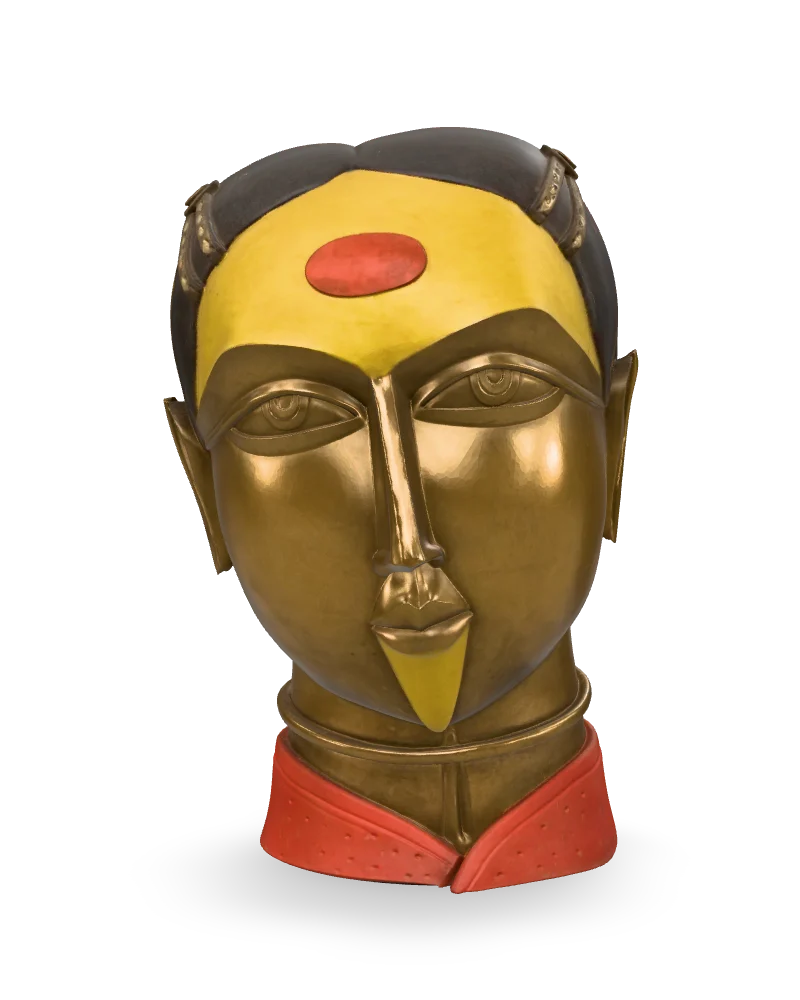
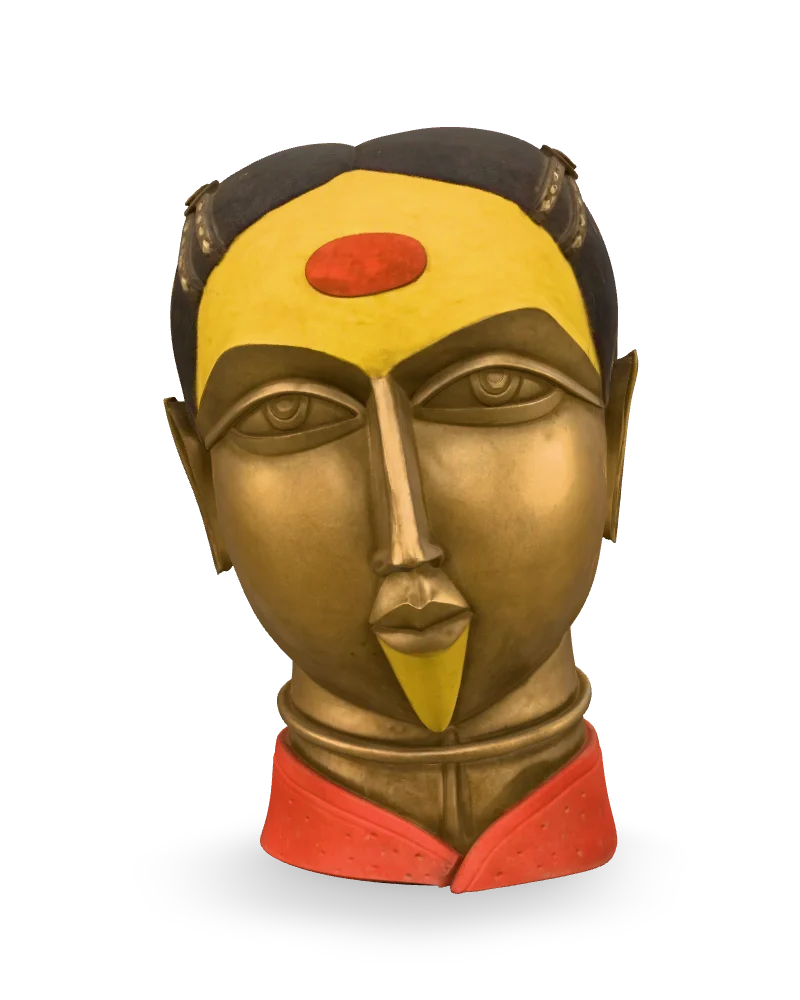
Ruby Saree Lady: new look from the look lab
More matte and brighter, for the AO model. Thumbnail rebuilt (?v=8).

diff --git a/lib/sculptures.ts b/lib/sculptures.ts
@@ -820,9 +820,9 @@ export const sculptures: Sculpture[] = [
     longDescription:
       "Calm and symmetrical, this bronze head by Thota Vaikuntam is dated 2026 and measures 24 × 16 × 24 inches, about 61 centimetres tall. The face is a smooth, rounded oval in brown bronze, broad across the cheeks and narrowing towards the chin.\n\nA broad yellow band runs across the forehead beneath dark hair, which is drawn back into a large round bun at the back of the head, and an oval red-orange bindi sits in the middle of the band. Small ornaments mark the hairline on each side. The brows form a strong, continuous line that drops into a long straight nose, and the almond-shaped eyes are set under heavy lids. The ears are flat and close to the head, without visible earrings. Below the closed lips, a pointed yellow triangle runs down to the chin.\n\nA thin ring circles the neck, and a vertical ridge runs down its front. At the base, the collar of the garment opens in a V, its two red panels marked with small dots. Seen from the front, the head is almost perfectly balanced left to right, and the bindi recalls the large vermilion bindis of the women in Thota's paintings.",
     artistSlug: "thota-vaikuntam",
-    thumbnail: "/thumbnails/thota-ruby-saree-lady.webp?v=7",
+    thumbnail: "/thumbnails/thota-ruby-saree-lady.webp?v=8",
     modelUrl: "/sculptures/thota-female-head-10.glb?v=3",
-    look: { metalness: 0.8, roughness: 1.2, reflections: 0.85, light: 1.2, sideLights: 0.85 },
+    look: { metalness: 1.05, roughness: 2.8, reflections: 0.85, light: 2.2, sideLights: 1 },
     material: "Bronze",
     year: "2026",
     dimensions: "24 × 16 × 24 inches",
